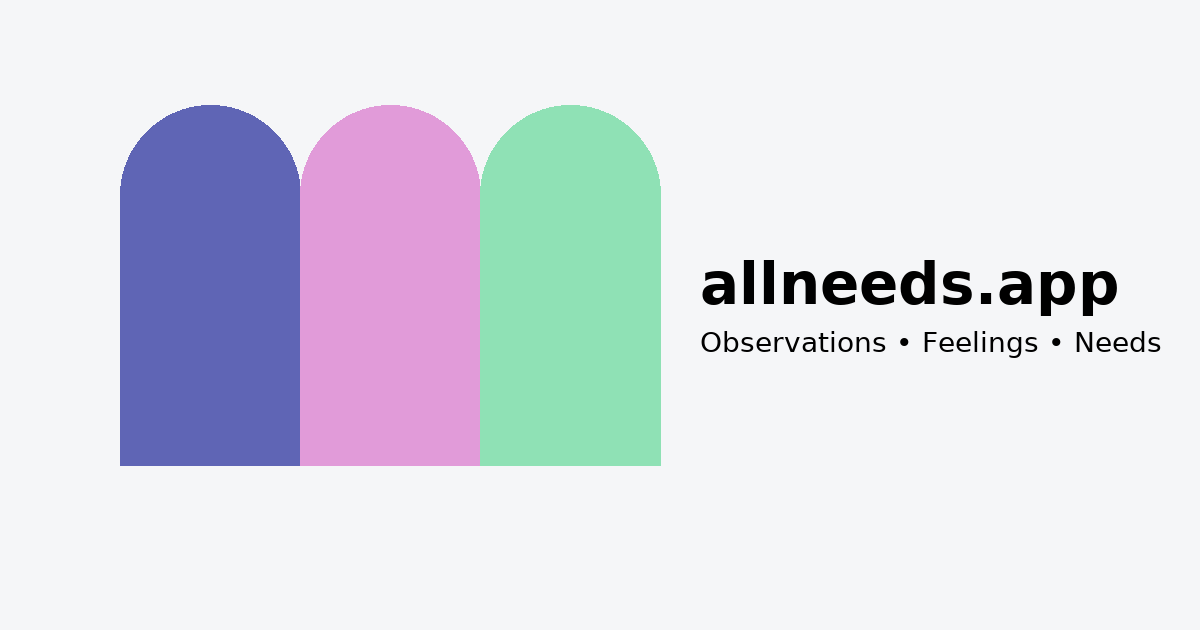
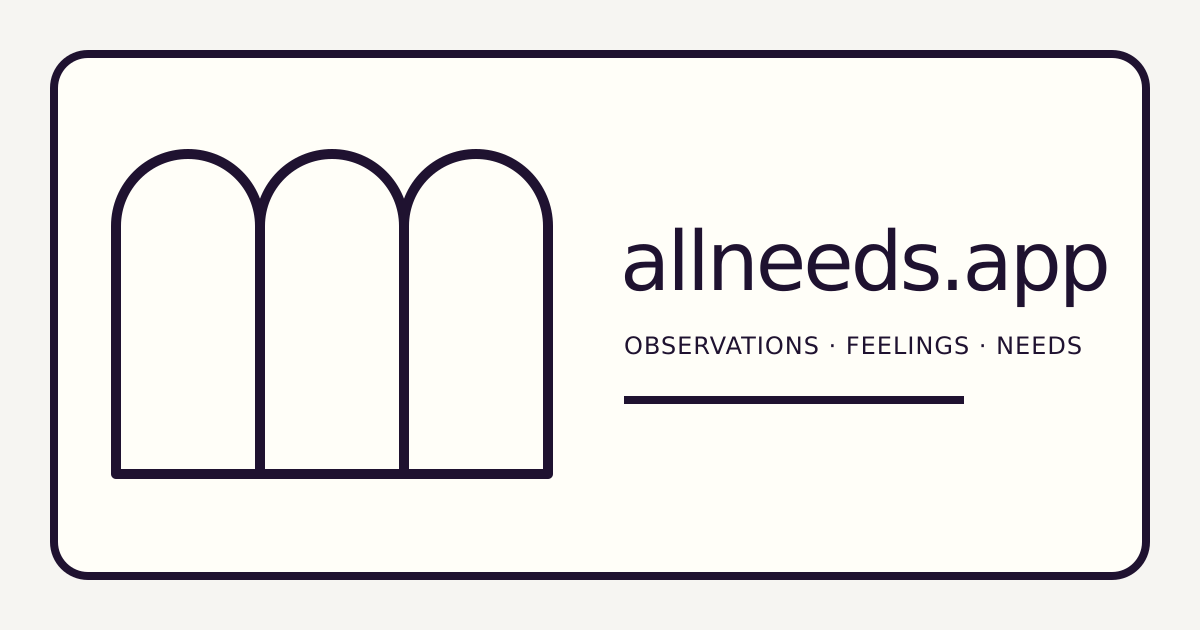
Stage restrained feature and brand marks

diff --git a/index.html b/index.html
@@ -9,19 +9,19 @@
       name="description"
       content="Build an inventory of strategies to tend to all your basic human needs. Everything stays on your device."
     />
-    <link rel="icon" type="image/svg+xml" href="%BASE_URL%icons/favicon-color.svg?v=3" />
-    <link rel="icon" type="image/png" sizes="48x48" href="%BASE_URL%icons/favicon-color-48x48.png?v=3" />
-    <link rel="icon" type="image/png" sizes="32x32" href="%BASE_URL%icons/favicon-color-32x32.png?v=3" />
-    <link rel="icon" type="image/png" sizes="16x16" href="%BASE_URL%icons/favicon-color-16x16.png?v=3" />
-    <link rel="shortcut icon" href="%BASE_URL%icons/favicon.ico?v=3" />
+    <link rel="icon" type="image/svg+xml" href="%BASE_URL%icons/favicon-color.svg?v=4" />
+    <link rel="icon" type="image/png" sizes="48x48" href="%BASE_URL%icons/favicon-color-48x48.png?v=4" />
+    <link rel="icon" type="image/png" sizes="32x32" href="%BASE_URL%icons/favicon-color-32x32.png?v=4" />
+    <link rel="icon" type="image/png" sizes="16x16" href="%BASE_URL%icons/favicon-color-16x16.png?v=4" />
+    <link rel="shortcut icon" href="%BASE_URL%icons/favicon.ico?v=4" />
     <link rel="manifest" href="%BASE_URL%site.webmanifest" />
     <meta name="application-name" content="allneeds.app" />
-    <link rel="apple-touch-icon" sizes="180x180" href="%BASE_URL%icons/apple-touch-icon.png?v=3" />
+    <link rel="apple-touch-icon" sizes="180x180" href="%BASE_URL%icons/apple-touch-icon.png?v=4" />
     <meta name="apple-mobile-web-app-capable" content="yes" />
     <meta name="apple-mobile-web-app-title" content="allneeds.app" />
-    <link rel="mask-icon" href="%BASE_URL%icons/safari-pinned-tab.svg?v=3" color="#000000" />
+    <link rel="mask-icon" href="%BASE_URL%icons/safari-pinned-tab.svg?v=4" color="#000000" />
     <meta name="msapplication-TileColor" content="#ffffff" />
-    <meta name="msapplication-TileImage" content="%BASE_URL%icons/mstile-150x150.png?v=3" />
+    <meta name="msapplication-TileImage" content="%BASE_URL%icons/mstile-150x150.png?v=4" />
     <meta name="msapplication-config" content="%BASE_URL%browserconfig.xml" />
     <link rel="canonical" href="https://allneeds.app/" />
     <meta property="fb:app_id" content="966242223397117" />
@@ -30,18 +30,18 @@
     <meta property="og:url" content="https://allneeds.app/" />
     <meta property="og:title" content="allneeds.app" />
     <meta property="og:description" content="Build an inventory of strategies to tend to all your basic human needs. Everything stays on your device." />
-    <meta property="og:image" content="https://allneeds.app/social/og-image-1200x630.png?v=3" />
-    <meta property="og:image:secure_url" content="https://allneeds.app/social/og-image-1200x630.png?v=3" />
+    <meta property="og:image" content="https://allneeds.app/social/og-image-1200x630.png?v=4" />
+    <meta property="og:image:secure_url" content="https://allneeds.app/social/og-image-1200x630.png?v=4" />
     <meta property="og:image:type" content="image/png" />
     <meta property="og:image:width" content="1200" />
     <meta property="og:image:height" content="630" />
-    <meta property="og:image:alt" content="Three colorful doorways symbolizing allneeds.app" />
+    <meta property="og:image:alt" content="Open monochrome three-door mark beside the allneeds.app wordmark" />
     <meta name="twitter:card" content="summary_large_image" />
     <meta name="twitter:title" content="allneeds.app" />
     <meta name="twitter:description" content="Build an inventory of strategies to tend to all your basic human needs. Everything stays on your device." />
     <meta name="twitter:url" content="https://allneeds.app/" />
-    <meta name="twitter:image" content="https://allneeds.app/social/twitter-card-1200x630.png?v=3" />
-    <meta name="twitter:image:alt" content="Three colorful doorways symbolizing allneeds.app" />
+    <meta name="twitter:image" content="https://allneeds.app/social/twitter-card-1200x630.png?v=4" />
+    <meta name="twitter:image:alt" content="Open monochrome three-door mark beside the allneeds.app wordmark" />
     <script>
       (function preapplySavedTheme() {
         var key = 'nvcApp.theme';

diff --git a/src/app/AppShell.tsx b/src/app/AppShell.tsx
@@ -17,12 +17,22 @@ import {
   type NavItemId,
 } from '../features/customizer/customizerSettings';
 import { INVENTORY_CHANGED_EVENT, readInventory } from '../features/inventory/inventoryRepository';
-import { assetPath } from '../data/catalog';
 import { readMagnetPlayPreference } from '../persistence/magnetLayoutStore';
 import styles from './AppShell.module.css';
 
 function readInventoryCount() {
   return readInventory().length;
+}
+
+function JournalMark({ mode, className }: { mode?: 'new' | 'history'; className?: string }) {
+  return (
+    <svg className={className} viewBox="0 0 32 32" fill="none" stroke="currentColor" strokeWidth="2.2" strokeLinecap="square" strokeLinejoin="round" aria-hidden="true">
+      <path d="M3.5 6.5H12c2.2 0 4 1.8 4 4v16c0-2.2-1.8-4-4-4H3.5v-16Zm25 0H20c-2.2 0-4 1.8-4 4v16c0-2.2 1.8-4 4-4h8.5v-16Z" />
+      {mode ? <circle cx="25" cy="7" r="5" fill="var(--surface-raised)" /> : null}
+      {mode === 'new' ? <path d="M25 4.5v5M22.5 7h5" /> : null}
+      {mode === 'history' ? <path d="M25 4.5V7l2 1.4" /> : null}
+    </svg>
+  );
 }
 
 const routeScrollPositions = new Map<string, number>();
@@ -116,7 +126,7 @@ function Breadcrumbs() {
             <li key={crumb.to} aria-current={current ? 'page' : undefined}>
               {current ? (
                 <span className={styles.breadcrumbLabel}>
-                  {crumb.to === '/inventory/journal' ? <img className={styles.breadcrumbIcon} src={assetPath('icons/journal-32bit.svg')} alt="" aria-hidden="true" /> : null}
+                  {crumb.to === '/inventory/journal' ? <JournalMark className={styles.breadcrumbIcon} /> : null}
                   {crumb.label}
                 </span>
               ) : <Link to={crumb.to}>{crumb.label}</Link>}
@@ -246,11 +256,7 @@ export function AppShell() {
         to: '/inventory/journal?compose=new',
         tone: 'action',
         kind: 'nav',
-        icon: (
-          <svg viewBox="0 0 24 24" fill="none" stroke="currentColor" strokeWidth="1.8" strokeLinecap="round" strokeLinejoin="round">
-            <path d="M9 3H3v6M3 3l7 7M15 21h6v-6M21 21l-7-7M15 3h6v6M21 3l-7 7M9 21H3v-6M3 21l7-7" />
-          </svg>
-        ),
+        icon: <JournalMark mode="new" />,
       },
       {
         id: 'nav-inventory',
@@ -302,6 +308,7 @@ export function AppShell() {
         to: '/inventory/journal',
         tone: 'action',
         kind: 'nav',
+        icon: <JournalMark mode="history" />,
       },
     ];
     return items.filter((item) => !item.setting || navSettings[item.setting]);

diff --git a/src/features/home/HomePage.tsx b/src/features/home/HomePage.tsx
@@ -1,3 +1,4 @@
+import type { CSSProperties } from 'react';
 import { Link } from 'react-router';
 
 import { assetPath } from '../../data/catalog';
@@ -20,7 +21,10 @@ export function HomePage() {
           <div key={doorway.to} className={`${styles.doorCard} ${styles[doorway.tone]}`}>
             <Link className={styles.doorLink} to={doorway.to}>
               <span className={styles.door} aria-hidden="true">
-                <img className={styles.icon} src={assetPath(doorway.icon)} alt="" />
+                <span
+                  className={styles.icon}
+                  style={{ '--door-icon': `url("${assetPath(doorway.icon)}")` } as CSSProperties}
+                />
               </span>
               <span className={styles.label}>{doorway.label}</span>
             </Link>

diff --git a/src/features/home/HomePage.module.css b/src/features/home/HomePage.module.css
@@ -51,6 +51,7 @@
 }
 
 .door {
+  position: relative;
   width: min(9rem, 82%);
   aspect-ratio: 3 / 5;
   padding: clamp(0.4rem, 2vw, 0.6rem);
@@ -68,9 +69,15 @@
 }
 
 .icon {
-  width: 70%;
-  height: auto;
-  image-rendering: pixelated;
+  position: absolute;
+  top: 43%;
+  left: 50%;
+  width: 72%;
+  aspect-ratio: 1;
+  background: var(--outline);
+  -webkit-mask: var(--door-icon) center / contain no-repeat;
+  mask: var(--door-icon) center / contain no-repeat;
+  transform: translate(-50%, -50%);
 }
 
 .label {

diff --git a/docs/design-language.md b/docs/design-language.md
@@ -183,13 +183,25 @@ The visible swatch itself is the native `input[type=color]`; do not replace it w
 - Persist the successfully checked Public/Most recent snapshot for one hour. A full reload may satisfy the branded preload from that complete browser snapshot with no Worker request, while the page reports when it was last refreshed. This is a bounded freshness claim, not proof that the server has not changed; manual Refresh always bypasses it.
 - A recently verified account may be reused from session-scoped browser storage for the same one-hour window so repeated reloads do not call `/api/me`. Private/profile operations remain server-enforced, and a new browser-app session validates normally.
 
+## Primary feature marks
+
+**Testing on `site-test` beginning 2026-10-11.** The home threshold uses three original monochrome marks: framed eye for Observations, uneven signal ending in an open attention node for Feelings, and rooted sprout for Needs.
+
+- These marks identify the app's three primary doorways. They do not create a mandate to illustrate every route or navigation magnet.
+- Each mark uses one 64 × 64 safe area and the same feature stroke, but is optically centered rather than forced into identical visual dimensions.
+- Marks inherit `Outline`; doorway fills remain `Primary`, `Action`, and `Positive`. The assets contain no feature palette.
+- Body Cues remains text-only. Its route does not receive a new icon merely to complete a set.
+- Journal uses one open-book mark. New Entry and Journal History add small plus and clock modifiers rather than unrelated symbols.
+
 ## App identity and social sharing imagery
 
-**Accepted 2026-08-25.** The legacy three-door mark remains the canonical app/favorite/share identity.
+**Testing on `site-test` beginning 2026-10-11.** The three empty doors remain the canonical public identity; feature marks stay inside the product rather than entering the master logo.
 
-- Preserve the complete legacy favicon, Apple touch icon, Android/maskable icon, Safari pinned-tab, Windows tile, web-manifest, and social-card asset set.
+- The Paper Magnet app icon uses the default `Primary`, `Action`, and `Positive` colors inside a tactile paper tile. The stored app icon is necessarily static; personalized Customizer colors remain a product behavior, not a per-user operating-system asset.
+- Social/header imagery uses the Open Monochrome three-door lockup so the public identity remains stable across personalized themes.
+- Preserve the complete favicon, Apple touch icon, Android/maskable icon, Safari pinned-tab, Windows tile, web-manifest, and social-card asset set.
 - The document head must advertise format fallbacks and platform-specific icons explicitly; do not rely on a browser inventing a letter tile from the page title.
-- Open Graph and Twitter sharing metadata use the legacy three-door social cards and accessible image text.
+- Open Graph and Twitter sharing metadata use the Open Monochrome social cards and accessible image text.
 
 ## Destructive / advanced actions
 
@@ -342,6 +354,10 @@ Rules:
 - A visually unique implementation is justified only by a unique task or protected identity. Record the exception here when it is introduced.
 
 ## Decision log
+
+### 2026-10-11
+
+- Began live `site-test` evaluation of the three monochrome home feature marks, the shared Journal mark/modifiers, the Paper Magnet app icon, and the Open Monochrome social lockup. Body Cues remains text-only and ordinary site icons remain unchanged.
 
 ### 2026-10-10
 
